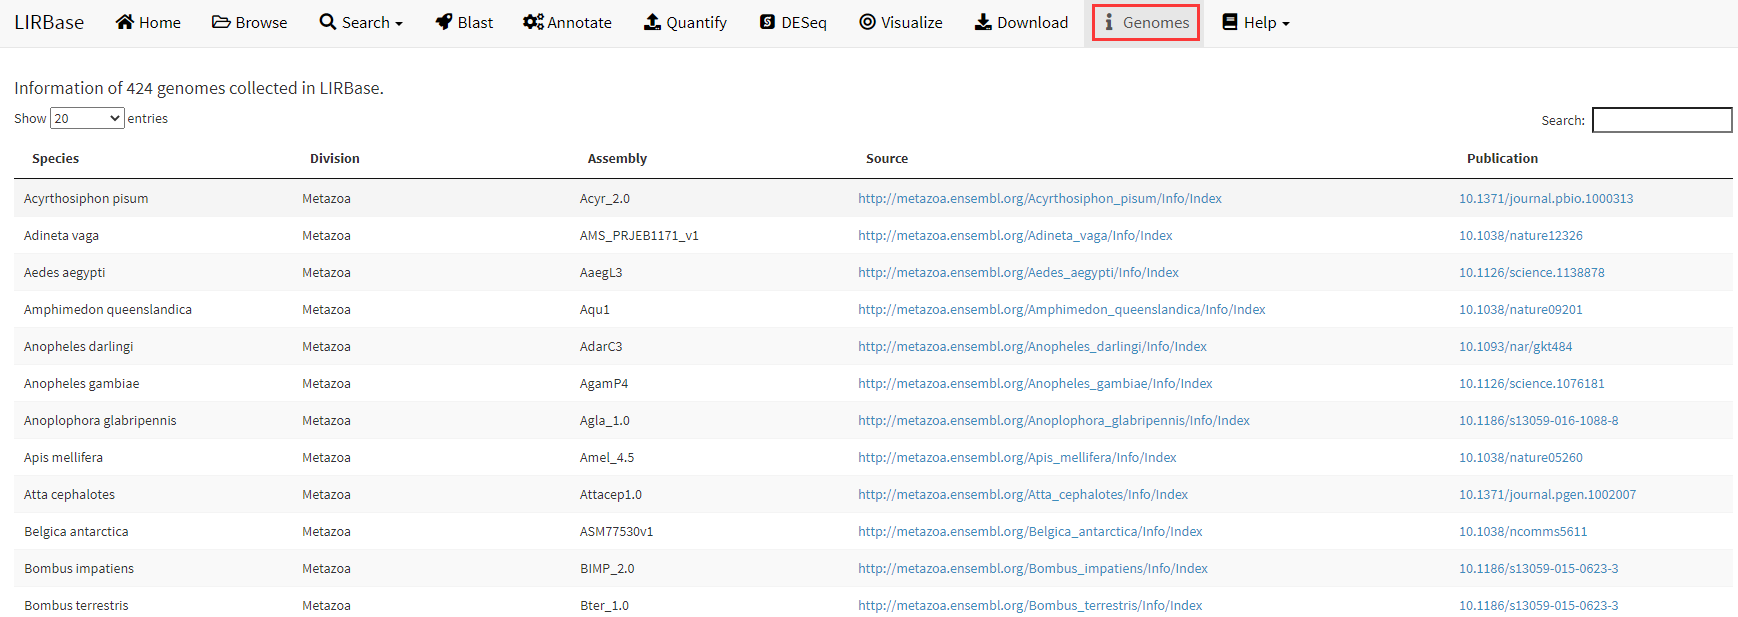
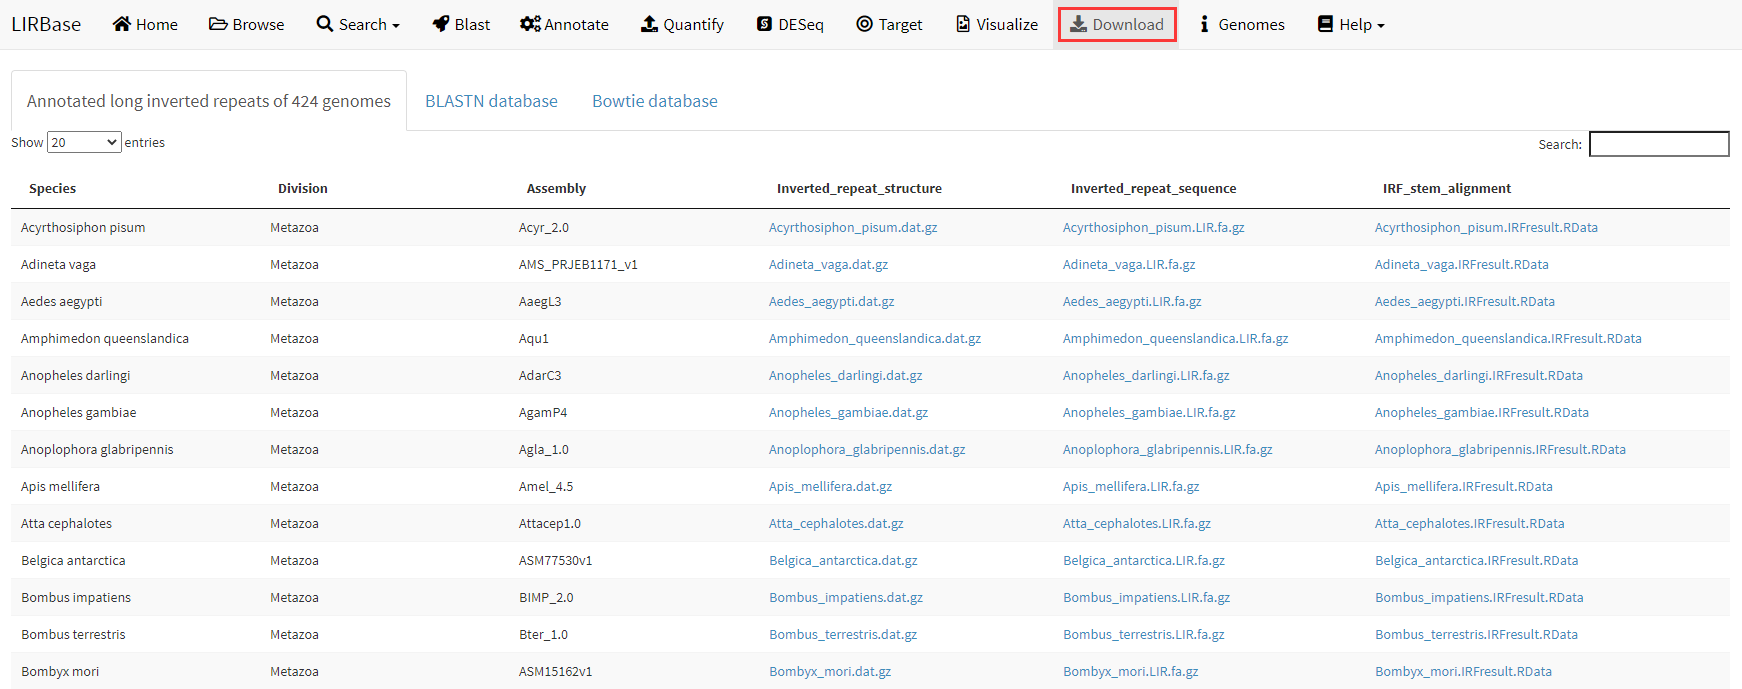
update tutorial

diff --git a/Tutorial.md b/Tutorial.md
@@ -111,37 +111,44 @@
 
 ## **7. Differential expression analysis of long inverted repeats and small RNAs**
 
->&emsp;&emsp;By aligning small RNA sequencing data to a LIRBase, we can obtain the small RNA read count for each LIR in a genome. With multiple biological samples/tissues, we can perform differential expression analysis of long inverted repeats between different biological samples/tissues (Figure 17). The R package DESeq2 ([http://www.bioconductor.org/packages/release/bioc/html/DESeq2.html](http://www.bioconductor.org/packages/release/bioc/html/DESeq2.html)) was utilized to perform differential expression analysis. A read count matrix and a sample information table are required as input data for the differential expression analysis. The sample in the count matrix and the sample in the information table must be in the same order. Check the example data provided by LIRBase for the format of a sample information table.
+>&emsp;&emsp;By aligning small RNA sequencing data to LIRBase, we can obtain the small RNA read count for each LIR in a genome. With multiple biological samples/tissues, we can perform differential expression analysis of long inverted repeats between different biological samples/tissues (Figure 17). The R package DESeq2 ([http://www.bioconductor.org/packages/release/bioc/html/DESeq2.html](http://www.bioconductor.org/packages/release/bioc/html/DESeq2.html)) was utilized to perform differential expression analysis. A read count matrix and a sample information table are required as input data for the differential expression analysis. The sample in the count matrix and the sample in the information table must be in the same order. Check the example data provided by LIRBase for the format of a sample information table.
 
 >&emsp;&emsp;The results of DESeq2 can be downloaded as a plain text file or can be viewed in a data table in the HTML page (Figure 17). In addition, the MA-plot and the volcano plot showing the identified differentially expressed LIRs/sRNAs are also generated. A heatmap displaying the sample-to-sample distance is shown at the bottom of the &quot;DESeq&quot; menu.
 
 <div align=center><img src="Fig17.png" width="85%" height="85%" align=center /></div>
 <div align=center><font color=blue size=5>Figure 17. The &quot;DESeq&quot; menu of LIRBase to perform differential expression analysis of LIRs/sRNAs.</font></div>  
 
-## **8. Predict and visualize the secondary structure of the potential hpRNA encoded by a LIR**
+## **8. Predict mRNA targets of small RNAs encoded by a LIR**
 
->We utilized the RNAfold software to predict and visualize the secondary structure of the potential hpRNA encoded by a LIR (Figure 18). The DNA sequence of a single LIR should be inputted at a time. The secondary structure in dot-bracket notation and the secondary structure in PDF image are displayed in the output, which can also be downloaded.
+>&emsp;&emsp;An analysis module was implemented to predict the mRNA targets of small RNAs encoded by a LIR through the detection of complementary matches between small RNAs and the cDNA sequence of protein-coding genes. The input should be all the small RNAs encoded by a LIR in FASTA format or sequences only (Figure 18). Then the small RNA sequences were aligned to the cDNA sequences of a specific genome by BOWTIE. The alignments were processed to identify complementary matches between small RNAs and the cDNA sequences. An example output is shown in Figure 18.
 
 <div align=center><img src="Fig18.png" width="85%" height="85%" align=center /></div>
-<div align=center><font color=blue size=5>Figure 18. The 'Visualize' menu of LIRBase.</font></div>  
+<div align=center><font color=blue size=5>Figure 18. The 'Target' menu of LIRBase.</font></div>  
 
-## **9. Download LIRs of 424 eukaryotic genomes, the BLAST database and the Bowtie index database**
+## **9. Predict and visualize the secondary structure of the potential hpRNA encoded by a LIR**
 
->&emsp;&emsp;In addition to be used online at [http://venyao.xyz/lirbase/](http://venyao.xyz/lirbase/), LIRBase can be deployed on a personal local or web Linux server. Deployment of LIRBase is platform independent, i.e., LIRBase can be deployed on any platform with the R environment available. The detailed steps are described in the &quot;Installation&quot; submenu of the &quot;Help&quot; menu of LIRBase (Figure 19). The source code of LIRBase is deposited in GitHub ([https://github.com/venyao/LIRBase](https://github.com/venyao/LIRBase)). As the file size of identified LIRs and the corresponding BLAST/Bowtie databases of the 424 eukaryotic genomes are too large, these datasets were not uploaded to GitHub. Instead, these data can be downloaded from [http://venyao.xyz/lirbase/](http://venyao.xyz/lirbase/) through the &quot;Download&quot; menu (Figure 20).
+>&emsp;&emsp;We utilized the RNAfold software to predict and visualize the secondary structure of the potential hpRNA encoded by a LIR (Figure 19). The DNA sequence of a single LIR should be inputted at a time. The secondary structure in dot-bracket notation and the secondary structure in PDF image are displayed in the output, which can also be downloaded.
 
 <div align=center><img src="Fig19.png" width="85%" height="85%" align=center /></div>
-<div align=center><font color=blue size=5>Figure 19. The &quot;Installation&quot; submenu of the &quot;Help&quot; menu of LIRBase.</font></div>  
+<div align=center><font color=blue size=5>Figure 19. The 'Visualize' menu of LIRBase.</font></div>  
+
+## **10. Download LIRs of 424 eukaryotic genomes, the BLAST database and the Bowtie index database**
+
+>&emsp;&emsp;In addition to be used online at [http://venyao.xyz/lirbase/](http://venyao.xyz/lirbase/), LIRBase can be deployed on a personal local or web Linux server. Deployment of LIRBase is platform independent, i.e., LIRBase can be deployed on any platform with the R environment available. The detailed steps are described in the &quot;Installation&quot; submenu of the &quot;Help&quot; menu of LIRBase (Figure 20). The source code of LIRBase is deposited in GitHub ([https://github.com/venyao/LIRBase](https://github.com/venyao/LIRBase)). As the file size of identified LIRs and the corresponding BLAST/Bowtie databases of the 424 eukaryotic genomes are too large, these datasets were not uploaded to GitHub. Instead, these data can be downloaded from [http://venyao.xyz/lirbase/](http://venyao.xyz/lirbase/) through the &quot;Download&quot; menu (Figure 21).
+
+<div align=center><img src="Fig20.png" width="85%" height="85%" align=center /></div>
+<div align=center><font color=blue size=5>Figure 20. The &quot;Installation&quot; submenu of the &quot;Help&quot; menu of LIRBase.</font></div>  
 
 <br/>
 
-<div align=center><img src="Fig20.png" width="85%" height="85%" align=center /></div>
-<div align=center><font color=blue size=5>Figure 20. The &quot;Download&quot; menu of LIRBase.</font></div>  
-
-## **10. Information of 424 genomes collected in LIRBase**
-
->&emsp;&emsp;The information of 424 genomes collected in LIRBase is displayed in the &quot;Genomes&quot; menu of LIRBase (Figure 21).
-
 <div align=center><img src="Fig21.png" width="85%" height="85%" align=center /></div>
-<div align=center><font color=blue size=5>Figure 21. The &quot;Genomes&quot; menu of LIRBase.</font></div>  
+<div align=center><font color=blue size=5>Figure 21. The &quot;Download&quot; menu of LIRBase.</font></div>  
+
+## **11. Information of 424 genomes collected in LIRBase**
+
+>&emsp;&emsp;The information of 424 genomes collected in LIRBase is displayed in the &quot;Genomes&quot; menu of LIRBase (Figure 22).
+
+<div align=center><img src="Fig22.png" width="85%" height="85%" align=center /></div>
+<div align=center><font color=blue size=5>Figure 22. The &quot;Genomes&quot; menu of LIRBase.</font></div>  
 
 <br/>

diff --git a/README.md b/README.md
@@ -10,7 +10,8 @@ LIRBase
 >5. **Detect and annotate long inverted repeats** in user-uploaded DNA sequences.  
 >6. **Align small RNA sequencing data to long inverted repeats** of a specific genome to detect the origination of small RNAs from long inverted repeats and quantify the expression level of small RNAs and long inverted repeats.  
 >7. Perform **differential expression analysis of long inverted repeats or small RNAs** between different biological samples/tissues.  
->8. Predict and visualize the **secondary structure of potential hpRNA encoded by a LIR** using RNAfold.  
+>8. **Identify protein-coding genes targeted by the small RNAs derived from a LIR** through detecting the complementary matches between small RNAs and the cDNA sequence of protein-coding genes.  
+>9. Predict and visualize the **secondary structure of potential hpRNA encoded by a LIR** using RNAfold.  
 
 *****
 
